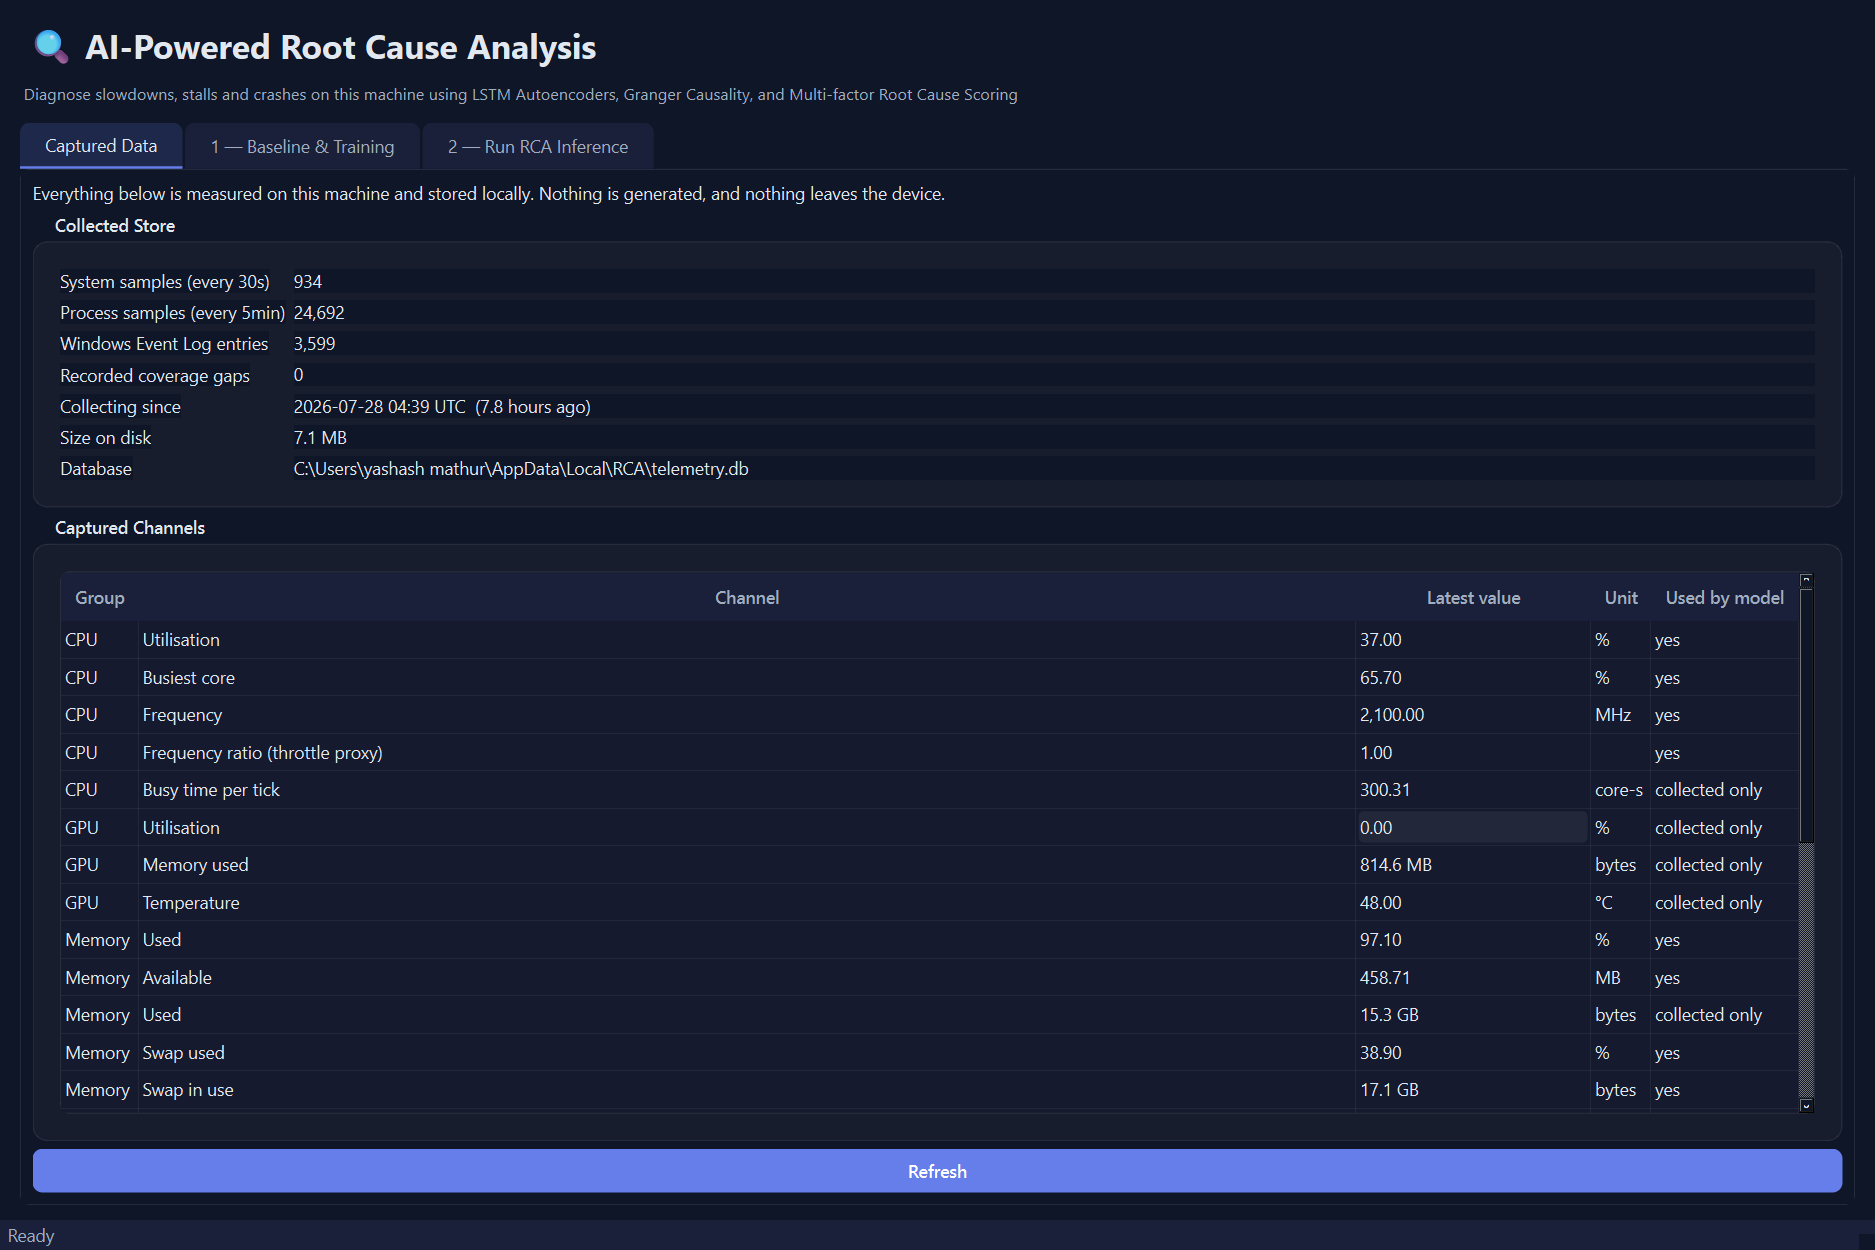
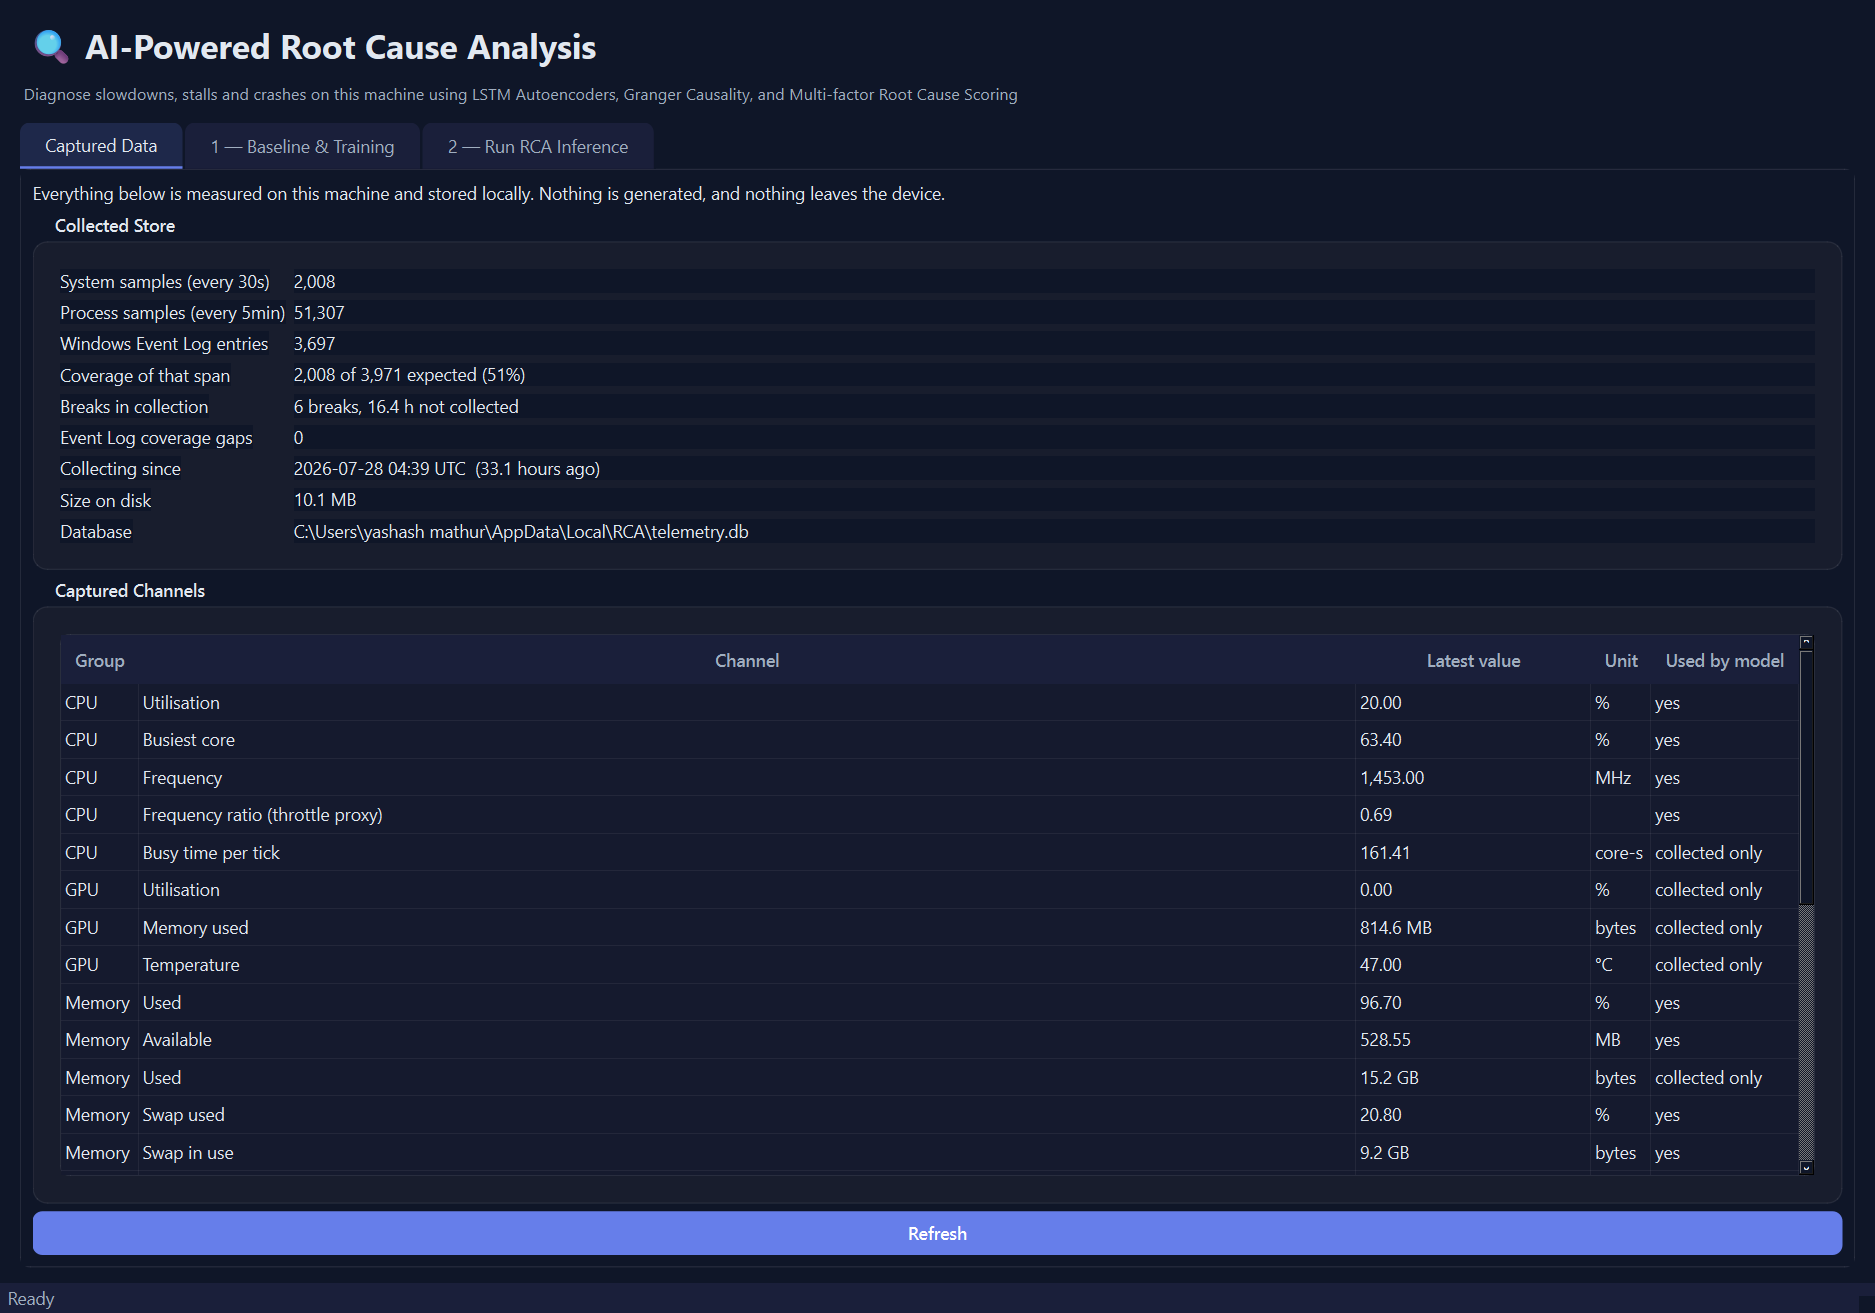
fix: report real collection coverage instead of implying it is continuous
The Captured Data tab showed "Recorded coverage gaps: 0" beside "Collecting
since ... 33 hours ago", which reads as 33 hours of unbroken collection. It was
not: 2,008 samples of an expected 3,971, six breaks, and 16.4 hours never
collected.

The zero came from counting the collection_gaps table, which only records Event
Log watermark resets. Sampling gaps are derived from timestamps and never
stored, so that row could not have shown them however broken collection got.

The tab now reports coverage of the span and the derived break count, and the
Event Log row is labelled for what it actually counts.

diff --git a/src/telemetry/analysis.py b/src/telemetry/analysis.py
@@ -148,7 +148,9 @@ def store_summary(path: Path | str | None = None) -> dict:
     db = Path(path or config.db_path())
     summary: dict = {"path": db, "exists": db.exists(), "size_bytes": 0,
                      "samples": 0, "events": 0, "proc_samples": 0, "gaps": 0,
-                     "first_ts": None, "last_ts": None, "latest": {}, "available": set()}
+                     "first_ts": None, "last_ts": None, "latest": {}, "available": set(),
+                     "sampling_gaps": 0, "gap_hours": 0.0,
+                     "expected_samples": 0, "coverage_pct": 0.0}
     if not db.exists():
         return summary
 
@@ -166,6 +168,23 @@ def store_summary(path: Path | str | None = None) -> dict:
         if bounds and bounds[0]:
             summary["first_ts"] = pd.to_datetime(bounds[0], unit="s", utc=True)
             summary["last_ts"] = pd.to_datetime(bounds[1], unit="s", utc=True)
+
+            # Sampling gaps are derived from timestamps, never stored. The
+            # collection_gaps table only records Event Log watermark resets, so
+            # reporting it as "coverage gaps" claimed unbroken collection while
+            # the sample series was actually in pieces.
+            span_s = bounds[1] - bounds[0]
+            expected = int(span_s / config.SYSTEM_CADENCE_S) + 1 if span_s else summary["samples"]
+            summary["expected_samples"] = expected
+            summary["coverage_pct"] = (100.0 * summary["samples"] / expected) if expected else 0.0
+
+            times = pd.Series([
+                row[0] for row in connection.execute("SELECT ts FROM samples ORDER BY ts")
+            ])
+            deltas = times.diff()
+            missed = deltas > config.gap_threshold_s()
+            summary["sampling_gaps"] = int(missed.sum())
+            summary["gap_hours"] = float(deltas[missed].sum() / 3600.0)
         row = connection.execute("SELECT * FROM samples ORDER BY ts DESC LIMIT 1").fetchone()
         if row:
             names = [description[0] for description in connection.execute("SELECT * FROM samples LIMIT 1").description]

diff --git a/src/desktop/views/data_view.py b/src/desktop/views/data_view.py
@@ -69,7 +69,9 @@ class DataView(QWidget):
             ("samples", "System samples (every 30s)"),
             ("proc_samples", "Process samples (every 5min)"),
             ("events", "Windows Event Log entries"),
-            ("gaps", "Recorded coverage gaps"),
+            ("coverage", "Coverage of that span"),
+            ("sampling_gaps", "Breaks in collection"),
+            ("gaps", "Event Log coverage gaps"),
             ("span", "Collecting since"),
             ("size", "Size on disk"),
             ("path", "Database"),
@@ -109,7 +111,8 @@ class DataView(QWidget):
 
         if not summary["exists"]:
             self.labels["path"].setText(f"{config.db_path()} — not created yet")
-            for key in ("samples", "proc_samples", "events", "gaps", "span", "size"):
+            for key in ("samples", "proc_samples", "events", "coverage",
+                        "sampling_gaps", "gaps", "span", "size"):
                 self.labels[key].setText("—")
             self.table.setRowCount(0)
             return
@@ -118,6 +121,16 @@ class DataView(QWidget):
         self.labels["proc_samples"].setText(f"{summary['proc_samples']:,}")
         self.labels["events"].setText(f"{summary['events']:,}")
         self.labels["gaps"].setText(f"{summary['gaps']:,}")
+        # Span alone implies continuous collection. It is not: sleep,
+        # reboots and collector crashes all leave holes, and training needs
+        # unbroken runs rather than total elapsed time.
+        self.labels["coverage"].setText(
+            f"{summary['samples']:,} of {summary['expected_samples']:,} expected "
+            f"({summary['coverage_pct']:.0f}%)"
+        )
+        self.labels["sampling_gaps"].setText(
+            f"{summary['sampling_gaps']:,} breaks, {summary['gap_hours']:.1f} h not collected"
+        )
         self.labels["size"].setText(_human_bytes(summary["size_bytes"]))
         self.labels["path"].setText(str(summary["path"]))
         if summary["first_ts"] is not None:
